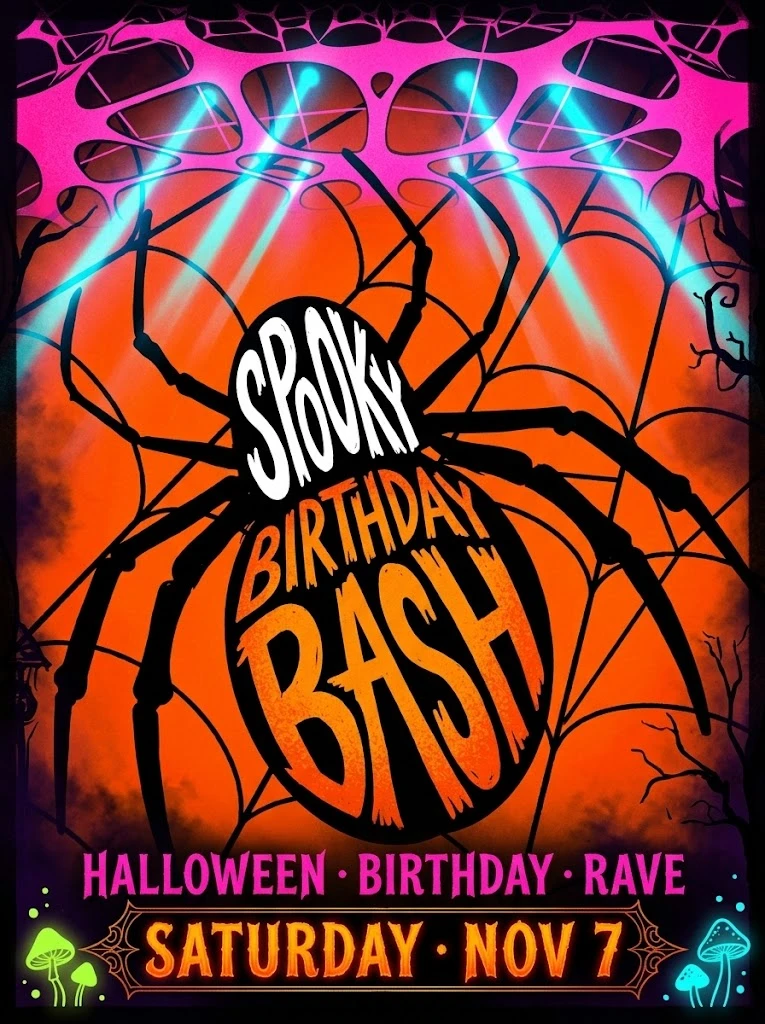
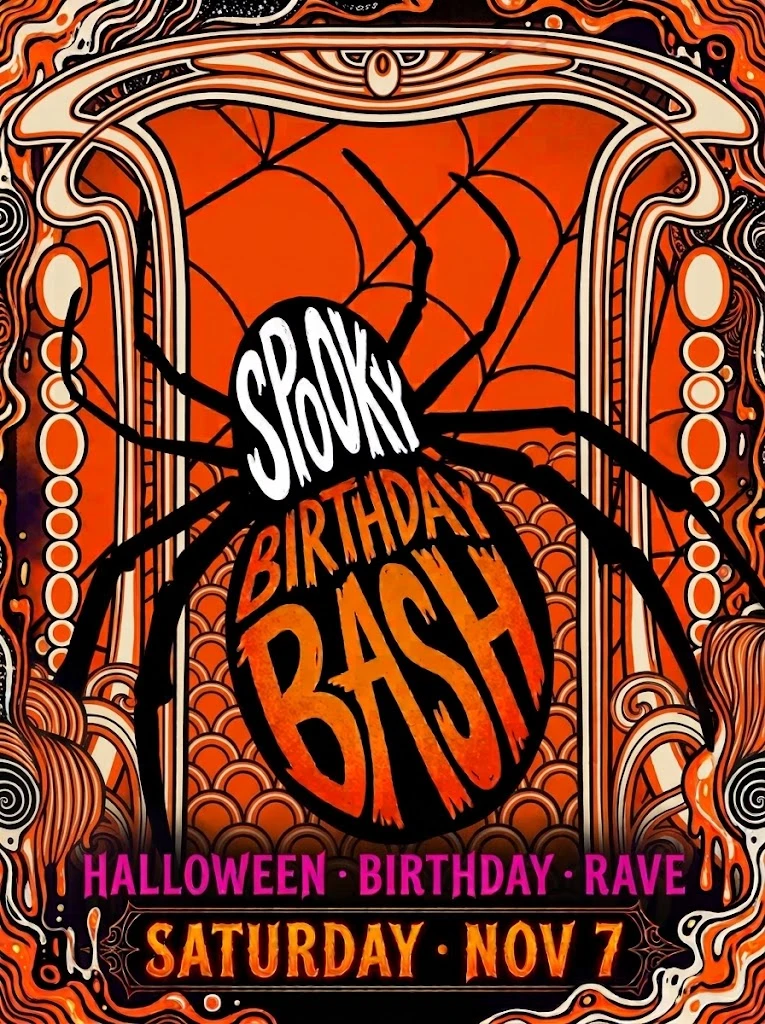
New poster; responsive, notch-safe header sized to the screen

diff --git a/style.css b/style.css
@@ -246,3 +246,12 @@ footer { color: #555; }
 @media (max-width: 720px) { .set-row .votes-col { grid-column: 3; } .set-row .acts { grid-column: 4 / -1; justify-content: flex-end; } }
 .board-row { flex-wrap: nowrap !important; } .board-row .dim { width: auto !important; }
 .ptile.spotify svg circle { fill: none !important; stroke: #fff; stroke-width: 1.6; }
+/* responsive poster header */
+.poster-hero { width: 100%; max-width: 600px; padding: env(safe-area-inset-top) 0 0 !important; overflow: hidden; }
+.poster-img { width: min(100%, calc(70svh * 765 / 1024)); max-width: 100%; height: auto; aspect-ratio: 765 / 1024; margin: 0 auto;
+  -webkit-mask-image: linear-gradient(to bottom, #000 0, #000 92%, transparent 100%), linear-gradient(to right, transparent 0, #000 4%, #000 96%, transparent 100%);
+  -webkit-mask-composite: source-in;
+  mask-image: linear-gradient(to bottom, #000 0, #000 92%, transparent 100%), linear-gradient(to right, transparent 0, #000 4%, #000 96%, transparent 100%);
+  mask-composite: intersect; }
+@media (orientation: landscape) and (max-height: 600px) { .poster-img { width: min(100%, calc(85svh * 765 / 1024)); } }
+.poster-hero + main { margin-top: 4px; }

diff --git a/index.html b/index.html
@@ -2,7 +2,8 @@
 <html lang="en">
 <head>
   <meta charset="utf-8">
-  <meta name="viewport" content="width=device-width,initial-scale=1">
+  <meta name="viewport" content="width=device-width,initial-scale=1,viewport-fit=cover">
+  <meta name="theme-color" content="#000000">
   <title>🎃 Summon a Song</title>
   <link rel="preconnect" href="https://fonts.googleapis.com">
   <link href="https://fonts.googleapis.com/css2?family=Anton&family=Bowlby+One&family=Space+Grotesk:wght@400;500;600;700&display=swap" rel="stylesheet">

diff --git a/dj.html b/dj.html
@@ -2,7 +2,8 @@
 <html lang="en">
 <head>
   <meta charset="utf-8">
-  <meta name="viewport" content="width=device-width,initial-scale=1">
+  <meta name="viewport" content="width=device-width,initial-scale=1,viewport-fit=cover">
+  <meta name="theme-color" content="#000000">
   <meta name="robots" content="noindex">
   <title>🎧 DJ Crypt</title>
   <link rel="preconnect" href="https://fonts.googleapis.com">
